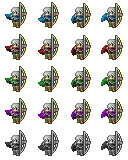
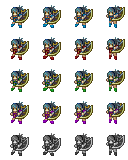
Finished testing for apothecary-f

diff --git a/test.py b/test.py
@@ -5,9 +5,14 @@ import splitter, glob, os
 # examples were taken from The Spriters Resource.
 # (https://www.spriters-resource.com/3ds/fireemblemfates/)
 
+FILE_STRING = 'inputs/{}.png'
+UNIT_NAME = 'oboro'
+CLASS_NAME = 'apothecary-f'
+HEAD_SIZE = 'large'
+
 splitter.main(
-    'inputs/niles.png',
-    'inputs/adventurer-m.png',
-    'large',
+    FILE_STRING.format(UNIT_NAME),
+    FILE_STRING.format(CLASS_NAME),
+    HEAD_SIZE,
     'testing',
     )

diff --git a/splitter.py b/splitter.py
@@ -30,6 +30,10 @@ SPRITE_PARAMS = {
         'offset': (-1,2),
         'size': 'large',
         },
+    'apothecary-f': {
+        'offset': (-2,2),
+        'size': 'large',
+        },
     }
 
 #Color offsets (multiplied by above blocks)
